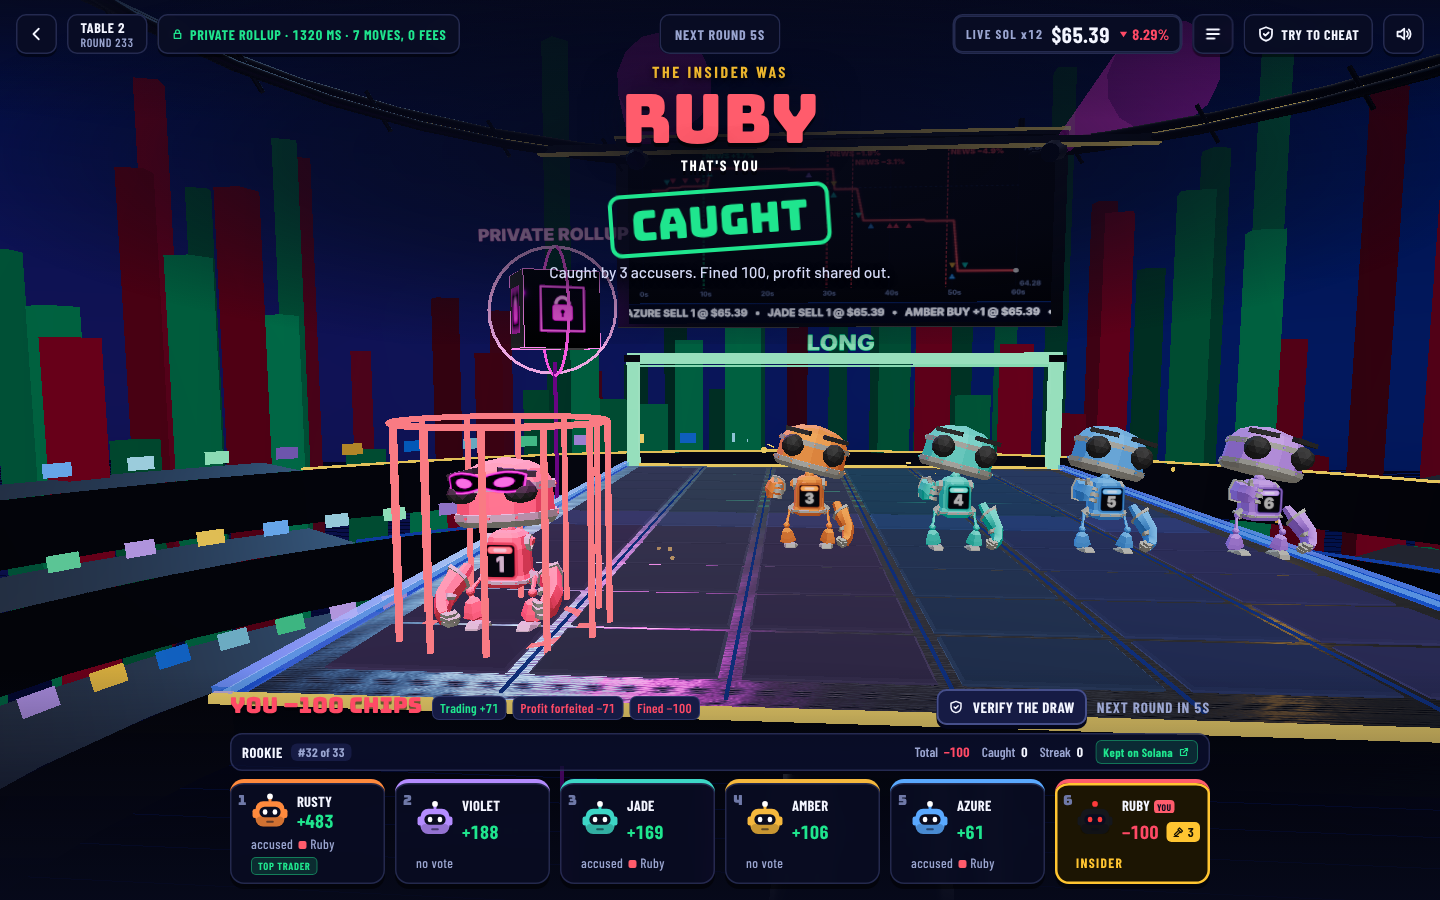
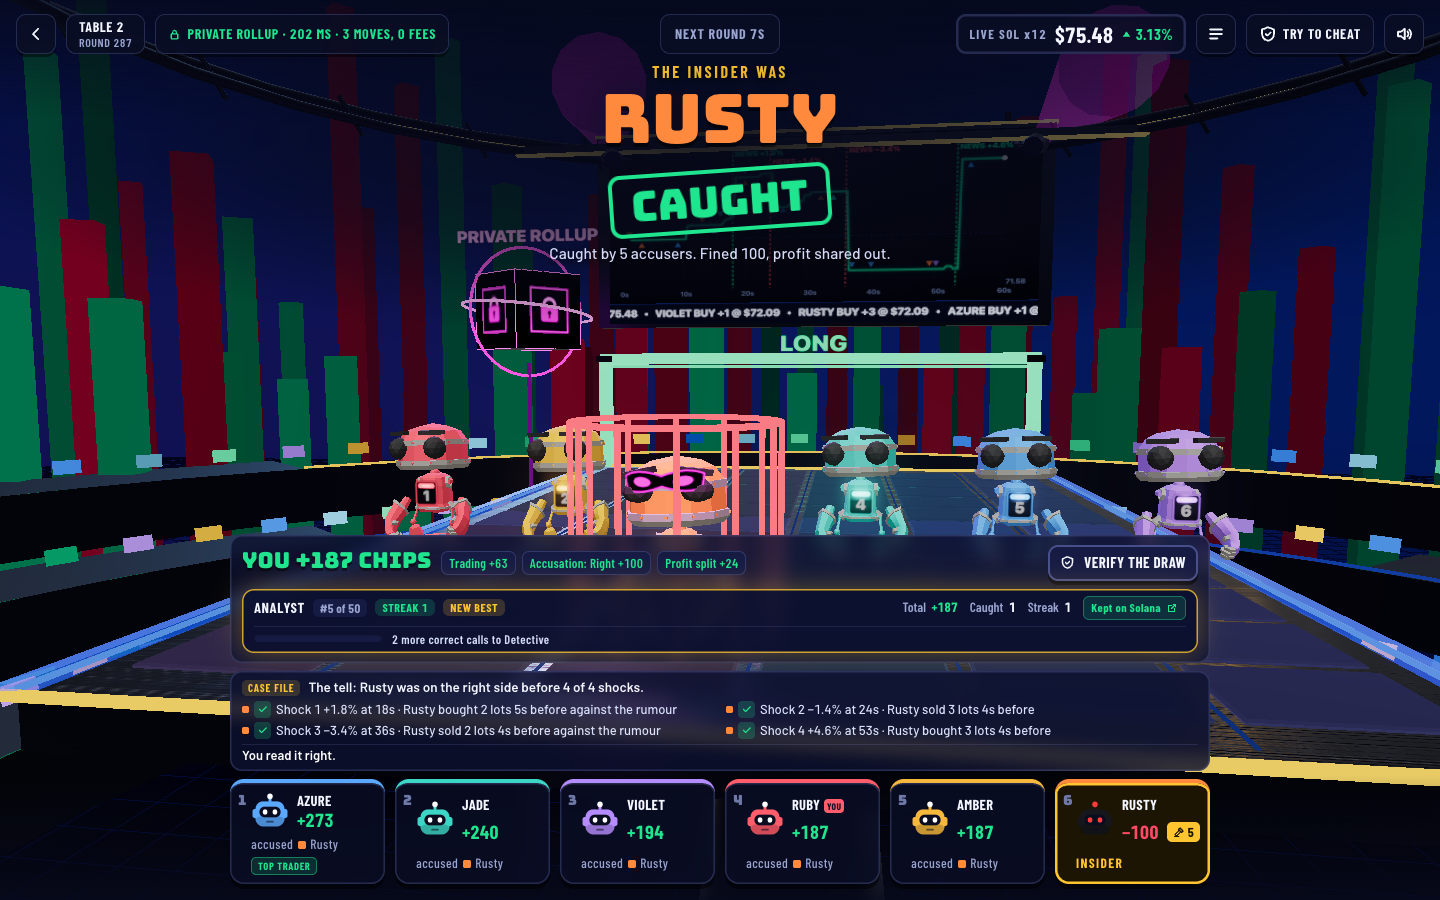
Refresh README screenshots and update video script for live tells, showdown, and case file

diff --git a/docs/VIDEO.md b/docs/VIDEO.md
@@ -5,13 +5,13 @@ Record at 1920x1080 in Chrome on a machine with a graphics card, sound on. Hide 
 | Time | On screen | Voice-over |
 |---|---|---|
 | 0:00–0:12 | Lobby, 3D floor behind the headline. Slow push toward "Play now". | "Six traders. One live price. And one of them already knows the news." |
-| 0:12–0:25 | Click **Play now**. Seated in about three seconds; the how-to-play card and bots joining. | "Tipoff is a sixty-second trading game on Solana. No wallet, no fees. You click play and you're at the table." |
+| 0:12–0:25 | Click **Play now** (or show the optional Phantom/Solflare wallet button). Seated in about three seconds; bots joining. | "Tipoff is a sixty-second trading game on Solana. No wallet, no fees—or connect Phantom or Solflare once to tie your season record to your wallet." |
 | 0:25–0:40 | Role card: **Your role: Insider**. Then the tip-off banner counting down to the first shock. | "MagicBlock's randomness picks one insider inside a private rollup. This round, it's me. I'm the only one who knows when the four news shocks land, and which way they go." |
-| 0:40–1:05 | Trading. Buy a few lots before the first shock; robot walks toward LONG, trade burst, the tape and wall chart update. Show the rollup chip ticking up moves at about 0.5 s. | "Every trade confirms in about half a second with zero fees. But every trade is also public. If I go all in right before the news, everyone sees it." |
+| 0:40–1:05 | Trading. Buy a few lots before the first shock; robot walks toward LONG, trade burst, the tape and wall chart update. Show the rollup chip ticking up moves at about 0.5 s and live **tell** chips appearing on seat tags. | "Every trade confirms in about half a second with zero fees. But every trade is also public. As shocks hit, seat tags light up with live tells—so if I trade right before the news, everyone sees it." |
 | 1:05–1:25 | The rumour banner appears ("SOL to surge in 5"), then the shock hits: flash, shockwave, coins. | "Five seconds before each shock, a public rumour names a direction. It's right two times out of three. Only I know which rumours are lies. The shocks get bigger as the round goes on." |
 | 1:25–1:40 | Last ten seconds: red pulse, closing bell. | "So the game for the insider is to profit without looking like the insider. The game for everyone else is to spot them." |
-| 1:40–2:05 | Second round as a trader. Vote line-up, **Who was the insider?** Evidence cards showing trades before each shock. Toggle all-in, accuse. | "Now I'm a trader. When the clock ends, everyone gets fifteen seconds to cast one sealed vote. The evidence cards show who traded just before each shock. Right is plus a hundred, wrong is minus fifty. All-in doubles the stakes." |
-| 2:05–2:25 | Drum roll, spotlight, **CAUGHT** and the cage drop (or **GOT AWAY** and the dance). Score count-up and results cards; Career panel with "Kept on Solana". | "The votes, the insider and the shocks are revealed together. A caught insider loses their profit to the accusers and pays a fine. An insider who escapes doubles it. Every result goes to the season board on Solana." |
+| 1:40–2:05 | Second round as a trader. Vote line-up, **Who was the insider?** Live tell chips, rank goal line, and evidence cards showing trades before each shock. Toggle all-in, accuse. | "Now I'm a trader. When the clock ends, everyone gets fifteen seconds to cast one sealed vote. The evidence cards show who traded just before each shock. Right is plus a hundred, wrong is minus fifty. All-in doubles the stakes." |
+| 2:05–2:25 | Drum roll, showdown reveal: accusers charge in, **CAUGHT** cage slam (or **GOT AWAY** knockback and dance). Score count-up, **Case file** shock-by-shock breakdown, and Career bar with "Kept on Solana". | "The votes, the insider and the shocks are revealed together. Accusers rush the insider: catch them and split their profit; miss and they knock you back and double theirs. The Case file shows every tell afterwards, and results go to the season board on Solana." |
 | 2:25–2:50 | Mid-round, open **Try to cheat**. Click **Read the secret**, **Read another seat**, **Trade as someone else**: each fails. | "Here's why it needs MagicBlock. On a normal chain, anyone could read the insider straight from the account data. Inside the private rollup, the secret has nobody on its read list. Not other players, not even me, the operator." |
 | 2:50–3:05 | After settlement, **Verify the draw**: the browser recomputes the insider and shocks and shows a match. | "When the round ends, the salt is published, so anyone can recheck that the draw was fair." |
 | 3:05–3:18 | Terminal: `npm run attack`, scrolling to `11/11 attacks rejected`. Then Solana Explorer on the program and season board. | "We ran eleven cheats against the live devnet tables. All eleven were rejected. And the results are committed back to Solana for anyone to inspect." |
